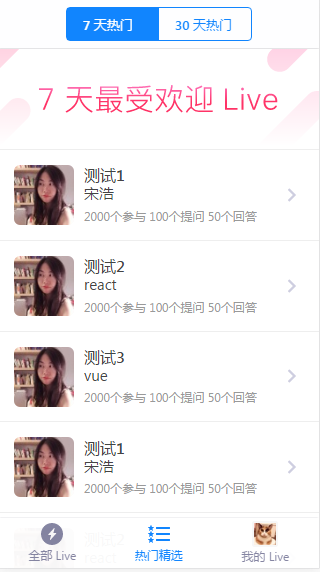
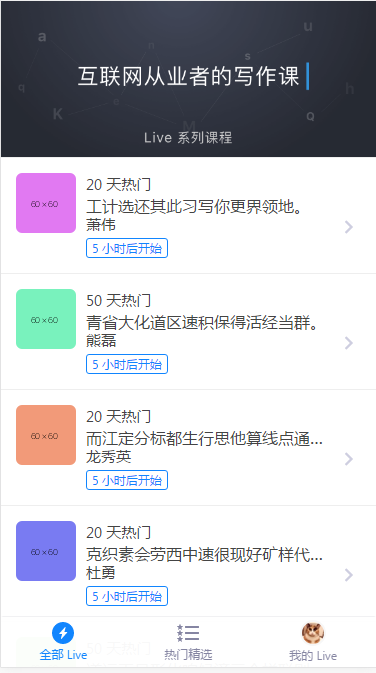
修改展示图

diff --git a/app/components/detail/detail.jsx b/app/components/detail/detail.jsx
@@ -1,6 +1,7 @@
 import React from 'react'
 import NavLink from '../lib/NavLink.jsx'
 import DetailHeader from './detailHeader.jsx'
+import request from '../commen/request.js'
 import DetailParty from './detailParty.jsx'
 import DetailActity from './detailActity.jsx'
 import DetailDes from './detailDes.jsx'
@@ -14,19 +15,16 @@ export default class Detail extends React.Component {
   // 获取数据
   fetchFn = () => {
     var that=this
-      fetch('../../data.json')
-          .then((res) => {
-            return res.json()
-           })
-          .then((data) => {
-            console.log(data.listData)
-            this.setState(
-              {
-                lists:data.listData
-              }
-            )
-           })
-          .catch((e) => { console.log(e.message) })
+    request.get('http://rap.taobao.org/mockjs/7918/songhao/batch')
+      .then((data) => {
+        console.log(data.listData)
+        this.setState(
+          {
+            lists:data.listData
+          }
+        )
+       })
+      .catch((e) => { console.log(e.message) })
   }
 
   componentDidMount() {
@@ -47,7 +45,7 @@ export default class Detail extends React.Component {
                       return (
                         <div className="Card-root-1Dmx" key={index}>
                           <a className="LiveItem-root-a6A2 common-clearfix-3JMt">
-                            <img  className="LiveItem-avatar-vumW Avatar-img--rfs" src={require('../../img/avatar2.jpg')} width="60" height="60"/>
+                            <img  className="LiveItem-avatar-vumW Avatar-img--rfs" src={e.avatar} width="60" height="60"/>
                             <div className="LiveItem-content-1pZp">
                               <svg fill="currentColor" className="LiveItem-arrow-1bM5" width="48" height="48" viewBox="0 0 48 48"><title>arrow</title><path d="M19.608308 11.291022c-.39064-.387697-1.037868-.388717-1.42788-.019096l-1.879672 1.7814c-.397956.37715-.40446 1.001224-.020242 1.388148l9.488537 9.55542-9.488535 9.55542c-.386777.389504-.36977 1.01853.020242 1.38815l1.879672 1.7814c.397955.37715 1.041186.364683 1.42788-.019096l12.09502-12.003886c.39064-.387697.386693-1.020195 0-1.403974L19.60831 11.291022z"></path></svg>
                               <div className="LiveItem-subject-1fn7 common-textEllipsis-3N5q">{e.title}</div>

diff --git a/README.md b/README.md
@@ -4,6 +4,7 @@
 ![image](https://github.com/songhaoreact/zhihu-live-react/blob/master/screenshots/react%20spa2.png?raw=true)
 ![image](https://github.com/songhaoreact/zhihu-live-react/blob/master/screenshots/react%20spa3.png?raw=true)
 ![image](https://github.com/songhaoreact/zhihu-live-react/blob/master/screenshots/react%20spa4.png?raw=true)
+![image](https://github.com/songhaoreact/zhihu-live-react/blob/master/screenshots/react%20spa5.png?raw=true)
 ### 安装
 
 ```
